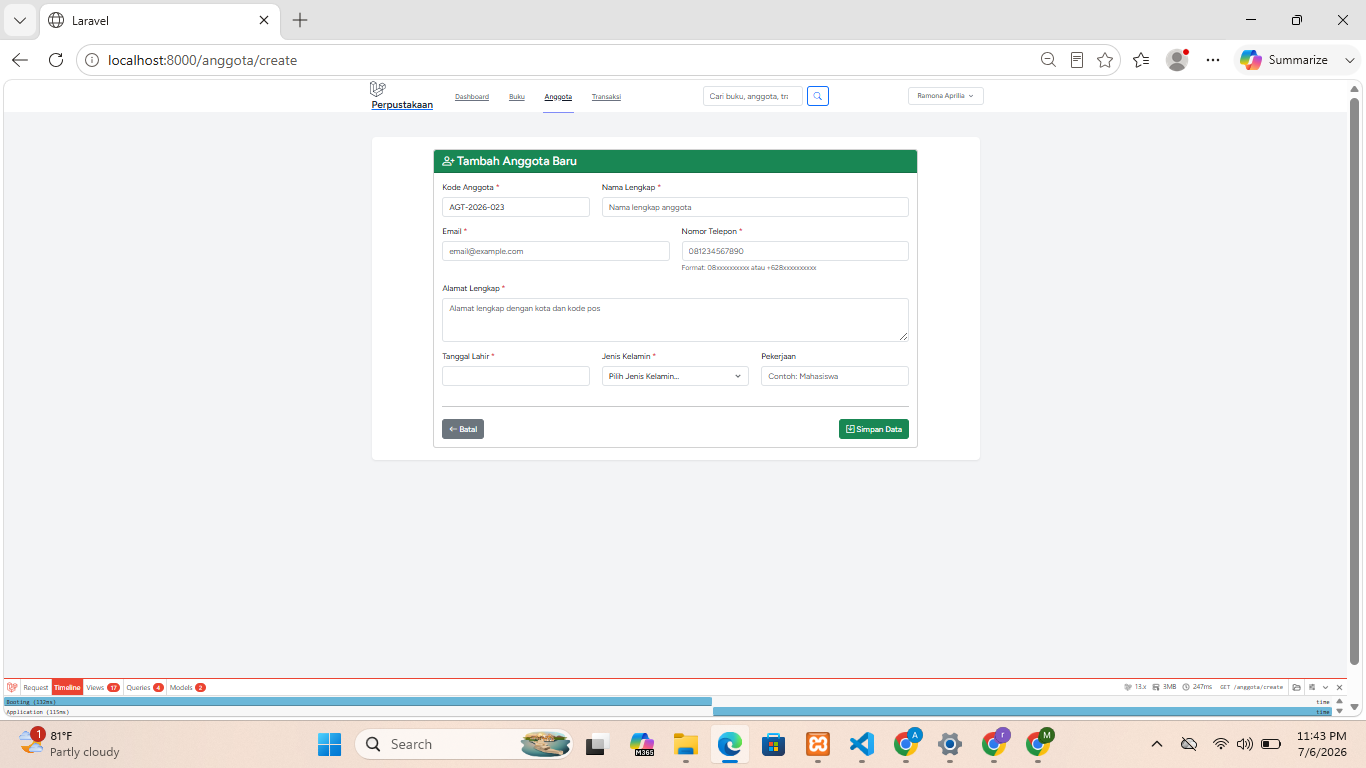
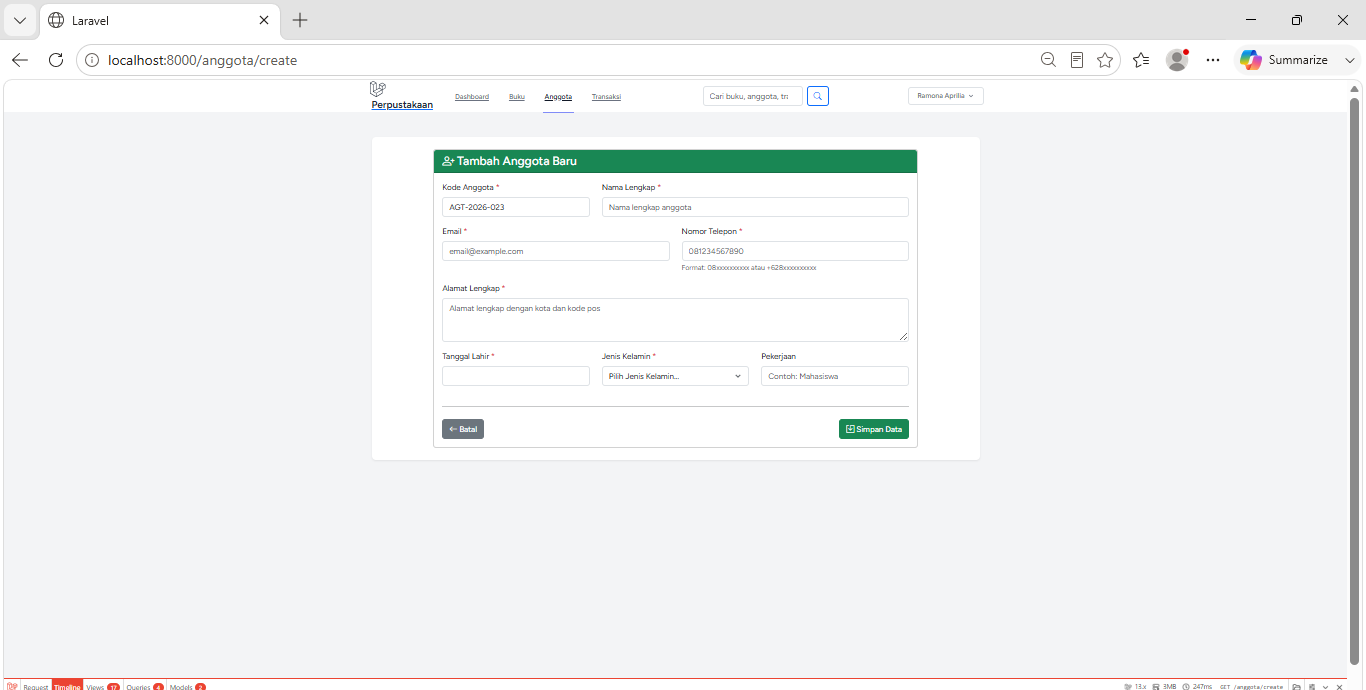
inisialisasi project

diff --git a/storage/framework/views/318f0066f1558fd2a88ac1d1569beeff.php b/storage/framework/views/318f0066f1558fd2a88ac1d1569beeff.php
@@ -1,0 +1,199 @@
+<?php if (isset($component)) { $__componentOriginal9ac128a9029c0e4701924bd2d73d7f54 = $component; } ?>
+<?php if (isset($attributes)) { $__attributesOriginal9ac128a9029c0e4701924bd2d73d7f54 = $attributes; } ?>
+<?php $component = App\View\Components\AppLayout::resolve([] + (isset($attributes) && $attributes instanceof Illuminate\View\ComponentAttributeBag ? $attributes->all() : [])); ?>
+<?php $component->withName('app-layout'); ?>
+<?php if ($component->shouldRender()): ?>
+<?php $__env->startComponent($component->resolveView(), $component->data()); ?>
+<?php if (isset($attributes) && $attributes instanceof Illuminate\View\ComponentAttributeBag): ?>
+<?php $attributes = $attributes->except(\App\View\Components\AppLayout::ignoredParameterNames()); ?>
+<?php endif; ?>
+<?php $component->withAttributes([]); ?>
+    <div class="py-12">
+        <div class="max-w-7xl mx-auto sm:px-6 lg:px-8">
+            <div class="bg-white overflow-hidden shadow-sm sm:rounded-lg p-6">
+
+                
+                <div class="d-flex justify-content-between align-items-center mb-4 border-b pb-3">
+                    <h1 class="fs-3 fw-bold text-gray-800 m-0">
+                        <i class="bi bi-info-circle-fill text-info"></i>
+                        Detail Transaksi Peminjaman
+                    </h1>
+                    <span class="badge <?php echo e($transaksi->status == 'Dipinjam' ? 'bg-warning text-dark' : 'bg-success'); ?> fs-6 px-3 py-2">
+                        <?php echo e($transaksi->status); ?>
+
+                    </span>
+                </div>
+
+                <?php if($transaksi->status === 'Dipinjam'): ?>
+                    <button type="button" class="btn btn-success" id="btn-kembalikan">
+                        <i class="bi bi-arrow-return-left"></i> Kembalikan Buku
+                    </button>
+                
+                    <form id="form-kembalikan" action="<?php echo e(route('transaksi.kembalikan', $transaksi->id)); ?>" method="POST" class="d-none">
+                        <?php echo csrf_field(); ?>
+                        <?php echo method_field('PUT'); ?>
+                    </form>
+                <?php else: ?>
+                    <?php if($transaksi->tanggal_dikembalikan <= $transaksi->tanggal_kembali): ?>
+                        <div class="alert alert-success">
+                            <i class="bi bi-check-circle"></i> Dikembalikan tepat waktu pada
+                            <?php echo e($transaksi->tanggal_dikembalikan->format('d M Y')); ?>
+
+                        </div>
+                    <?php else: ?>
+                        <div class="alert alert-warning">
+                            <i class="bi bi-exclamation-triangle"></i> Terlambat dikembalikan!
+                            Denda: Rp <?php echo e(number_format($transaksi->denda, 0, ',', '.')); ?>
+
+                        </div>
+                    <?php endif; ?>
+                <?php endif; ?>
+                
+                <?php $__env->startPush('scripts'); ?>
+                <script src="https://cdn.jsdelivr.net/npm/sweetalert2@11"></script>
+                <script>
+                document.getElementById('btn-kembalikan')?.addEventListener('click', function() {
+                    Swal.fire({
+                        title: 'Konfirmasi Pengembalian',
+                        text: 'Apakah Anda yakin ingin mengembalikan buku ini?',
+                        icon: 'question',
+                        showCancelButton: true,
+                        confirmButtonColor: '#198754',
+                        confirmButtonText: 'Ya, Kembalikan!',
+                        cancelButtonText: 'Batal'
+                    }).then((result) => {
+                        if (result.isConfirmed) {
+                            document.getElementById('form-kembalikan').submit();
+                        }
+                    });
+                });
+                </script>
+                <?php $__env->stopPush(); ?>
+
+                
+                <?php if(session('success')): ?>
+                    <div class="alert alert-success alert-dismissible fade show" role="alert" id="auto-close-alert">
+                        <i class="bi bi-check-circle-fill me-2"></i>
+                        <?php echo e(session('success')); ?>
+
+                        <button type="button" class="btn-close" data-bs-dismiss="alert" aria-label="Close"></button>
+                    </div>
+                <?php endif; ?>
+
+                <?php if(session('error')): ?>
+                    <div class="alert alert-danger alert-dismissible fade show" role="alert" id="auto-close-alert">
+                        <i class="bi bi-exclamation-triangle-fill me-2"></i>
+                        <?php echo e(session('error')); ?>
+
+                        <button type="button" class="btn-close" data-bs-dismiss="alert" aria-label="Close"></button>
+                    </div>
+                <?php endif; ?>
+
+                
+                <div class="row mb-4">
+                    <div class="col-md-6">
+                        <table class="table table-borderless sm:text-sm">
+                            <tr>
+                                <th width="40%">Kode Transaksi</th>
+                                <td>: <code><?php echo e($transaksi->kode_transaksi); ?></code></td>
+                            </tr>
+                            <tr>
+                                <th>Nama Anggota</th>
+                                <td>: <?php echo e($transaksi->anggota->nama ?? '-'); ?></td>
+                            </tr>
+                            <tr>
+                                <th>Judul Buku</th>
+                                <td>: <?php echo e($transaksi->buku->judul ?? '-'); ?></td>
+                            </tr>
+                        </table>
+                    </div>
+                    <div class="col-md-6">
+                        <table class="table table-borderless sm:text-sm">
+                            <tr>
+                                <th width="40%">Tanggal Pinjam</th>
+                                <td>: <?php echo e(is_root_obj($transaksi->tanggal_pinjam) ? $transaksi->tanggal_pinjam->format('d M Y') : \Carbon\Carbon::parse($transaksi->tanggal_pinjam)->format('d M Y')); ?></td>
+                            </tr>
+                            <tr>
+                                <th>Batas Kembali</th>
+                                <td>: <?php echo e(is_root_obj($transaksi->tanggal_kembali) ? $transaksi->tanggal_kembali->format('d M Y') : \Carbon\Carbon::parse($transaksi->tanggal_kembali)->format('d M Y')); ?></td>
+                            </tr>
+                            <?php if($transaksi->status == 'Dikembalikan'): ?>
+                            <tr>
+                                <th>Tanggal Dikembalikan</th>
+                                <td>: <?php echo e(is_root_obj($transaksi->tanggal_dikembalikan) ? $transaksi->tanggal_dikembalikan->format('d M Y') : \Carbon\Carbon::parse($transaksi->tanggal_dikembalikan)->format('d M Y')); ?></td>
+                            </tr>
+                            <?php endif; ?>
+                        </table>
+                    </div>
+                </div>
+
+                
+                <div class="card bg-light mb-4">
+                    <div class="card-body">
+                        <h5 class="card-title fs-6 fw-bold text-secondary mb-2">Informasi Pengembalian & Perhitungan Denda</h5>
+                        
+                        <?php if($transaksi->status == 'Dikembalikan'): ?>
+                            <p class="card-text text-muted mb-1">Status Pengembalian: <span class="text-success fw-bold">Buku Sudah Diterima</span></p>
+                            <h3 class="text-danger fw-bold m-0">Total Denda: Rp <?php echo e(number_format($transaksi->denda, 0, ',', '.')); ?></h3>
+                        <?php else: ?>
+                            <?php if($transaksi->terlambat > 0): ?>
+                                <div class="alert alert-danger m-0" role="alert">
+                                    <i class="bi bi-exclamation-octagon-fill me-2"></i>
+                                    <strong>Terlambat <?php echo e($transaksi->terlambat); ?> Hari!</strong> Estimasi denda saat ini sebesar: 
+                                    <span class="fs-5 d-block mt-1 fw-bold">Rp <?php echo e(number_format($transaksi->terlambat * 5000, 0, ',', '.')); ?></span>
+                                </div>
+                            <?php else: ?>
+                                <p class="text-success m-0 font-medium">
+                                    <i class="bi bi-shield-check me-1"></i> Buku belum melewati batas pengembalian. Bebas denda!
+                                </p>
+                            <?php endif; ?>
+                        <?php endif; ?>
+                    </div>
+                </div>
+
+                
+                <div class="d-flex gap-2 border-top pt-3">
+                    <a href="<?php echo e(route('transaksi.index')); ?>" class="btn btn-secondary">
+                        <i class="bi bi-arrow-left"></i> Kembali Ke Daftar
+                    </a>
+                </div>
+
+            </div>
+        </div>
+    </div>
+ <?php echo $__env->renderComponent(); ?>
+<?php endif; ?>
+<?php if (isset($__attributesOriginal9ac128a9029c0e4701924bd2d73d7f54)): ?>
+<?php $attributes = $__attributesOriginal9ac128a9029c0e4701924bd2d73d7f54; ?>
+<?php unset($__attributesOriginal9ac128a9029c0e4701924bd2d73d7f54); ?>
+<?php endif; ?>
+<?php if (isset($__componentOriginal9ac128a9029c0e4701924bd2d73d7f54)): ?>
+<?php $component = $__componentOriginal9ac128a9029c0e4701924bd2d73d7f54; ?>
+<?php unset($__componentOriginal9ac128a9029c0e4701924bd2d73d7f54); ?>
+<?php endif; ?>
+
+<?php
+// Helper pengecekan objek Carbon internal blade agar tidak crash
+function is_root_obj($val) {
+    return is_object($val) && method_exists($val, 'format');
+}
+?>
+
+
+<script>
+    document.addEventListener('DOMContentLoaded', function() {
+        const alertElement = document.getElementById('auto-close-alert');
+        if (alertElement) {
+            setTimeout(function() {
+                if (typeof bootstrap !== 'undefined' && bootstrap.Alert) {
+                    const bsAlert = new bootstrap.Alert(alertElement);
+                    bsAlert.close();
+                } else {
+                    alertElement.classList.remove('show');
+                    alertElement.classList.add('fade');
+                    setTimeout(() => alertElement.remove(), 150);
+                }
+            }, 5000);
+        }
+    });
+</script><?php /**PATH C:\xampp\htdocs\Pertemuan 15\praktikum-Pertemuan15\resources\views/transaksi/show.blade.php ENDPATH**/ ?>

diff --git a/storage/framework/views/e02b817244b12bf2009843bf1a59e687.php b/storage/framework/views/e02b817244b12bf2009843bf1a59e687.php
@@ -1,0 +1,100 @@
+<?php if (isset($component)) { $__componentOriginal9ac128a9029c0e4701924bd2d73d7f54 = $component; } ?>
+<?php if (isset($attributes)) { $__attributesOriginal9ac128a9029c0e4701924bd2d73d7f54 = $attributes; } ?>
+<?php $component = App\View\Components\AppLayout::resolve([] + (isset($attributes) && $attributes instanceof Illuminate\View\ComponentAttributeBag ? $attributes->all() : [])); ?>
+<?php $component->withName('app-layout'); ?>
+<?php if ($component->shouldRender()): ?>
+<?php $__env->startComponent($component->resolveView(), $component->data()); ?>
+<?php if (isset($attributes) && $attributes instanceof Illuminate\View\ComponentAttributeBag): ?>
+<?php $attributes = $attributes->except(\App\View\Components\AppLayout::ignoredParameterNames()); ?>
+<?php endif; ?>
+<?php $component->withAttributes([]); ?>
+
+    <div class="container-fluid py-4">
+
+        <h2 class="mb-4">Hasil Pencarian</h2>
+
+        <ul class="nav nav-tabs mb-3" role="tablist">
+            <li class="nav-item">
+                <a class="nav-link active" data-bs-toggle="tab" href="#tab-buku">
+                    Buku (<?php echo e($results['buku']->count()); ?>)
+                </a>
+            </li>
+            <li class="nav-item">
+                <a class="nav-link" data-bs-toggle="tab" href="#tab-anggota">
+                    Anggota (<?php echo e($results['anggota']->count()); ?>)
+                </a>
+            </li>
+            <li class="nav-item">
+                <a class="nav-link" data-bs-toggle="tab" href="#tab-transaksi">
+                    Transaksi (<?php echo e($results['transaksi']->count()); ?>)
+                </a>
+            </li>
+        </ul>
+
+        <div class="tab-content">
+
+            
+            <div class="tab-pane fade show active" id="tab-buku">
+                <?php $__empty_1 = true; $__currentLoopData = $results['buku']; $__env->addLoop($__currentLoopData); foreach($__currentLoopData as $buku): $__env->incrementLoopIndices(); $loop = $__env->getLastLoop(); $__empty_1 = false; ?>
+                    <div class="card mb-2">
+                        <div class="card-body">
+                            <h6><?php echo str_ireplace($keyword, '<mark>'.$keyword.'</mark>', e($buku->judul)); ?></h6>
+                            <small class="text-muted">
+                                <?php echo e($buku->penulis); ?> — Stok: <?php echo e($buku->stok); ?>
+
+                            </small>
+                        </div>
+                    </div>
+                <?php endforeach; $__env->popLoop(); $loop = $__env->getLastLoop(); if ($__empty_1): ?>
+                    <p class="text-muted">Tidak ada buku yang cocok.</p>
+                <?php endif; ?>
+            </div>
+
+            
+            <div class="tab-pane fade" id="tab-anggota">
+                <?php $__empty_1 = true; $__currentLoopData = $results['anggota']; $__env->addLoop($__currentLoopData); foreach($__currentLoopData as $anggota): $__env->incrementLoopIndices(); $loop = $__env->getLastLoop(); $__empty_1 = false; ?>
+                    <div class="card mb-2">
+                        <div class="card-body">
+                            <h6><?php echo str_ireplace($keyword, '<mark>'.$keyword.'</mark>', e($anggota->nama)); ?></h6>
+                            <small class="text-muted">
+                                <?php echo e($anggota->nim); ?> — <?php echo e($anggota->email); ?>
+
+                            </small>
+                        </div>
+                    </div>
+                <?php endforeach; $__env->popLoop(); $loop = $__env->getLastLoop(); if ($__empty_1): ?>
+                    <p class="text-muted">Tidak ada anggota yang cocok.</p>
+                <?php endif; ?>
+            </div>
+
+            
+            <div class="tab-pane fade" id="tab-transaksi">
+                <?php $__empty_1 = true; $__currentLoopData = $results['transaksi']; $__env->addLoop($__currentLoopData); foreach($__currentLoopData as $trx): $__env->incrementLoopIndices(); $loop = $__env->getLastLoop(); $__empty_1 = false; ?>
+                    <div class="card mb-2">
+                        <div class="card-body">
+                            <h6><?php echo e($trx->kode_transaksi); ?></h6>
+                            <small>
+                                <?php echo e($trx->anggota->nama); ?> — <?php echo e($trx->buku->judul); ?>
+
+                            </small>
+                        </div>
+                    </div>
+                <?php endforeach; $__env->popLoop(); $loop = $__env->getLastLoop(); if ($__empty_1): ?>
+                    <p class="text-muted">Tidak ada transaksi yang cocok.</p>
+                <?php endif; ?>
+            </div>
+
+        </div>
+
+    </div>
+
+ <?php echo $__env->renderComponent(); ?>
+<?php endif; ?>
+<?php if (isset($__attributesOriginal9ac128a9029c0e4701924bd2d73d7f54)): ?>
+<?php $attributes = $__attributesOriginal9ac128a9029c0e4701924bd2d73d7f54; ?>
+<?php unset($__attributesOriginal9ac128a9029c0e4701924bd2d73d7f54); ?>
+<?php endif; ?>
+<?php if (isset($__componentOriginal9ac128a9029c0e4701924bd2d73d7f54)): ?>
+<?php $component = $__componentOriginal9ac128a9029c0e4701924bd2d73d7f54; ?>
+<?php unset($__componentOriginal9ac128a9029c0e4701924bd2d73d7f54); ?>
+<?php endif; ?><?php /**PATH C:\xampp\htdocs\Pertemuan 15\praktikum-Pertemuan15\resources\views/search/index.blade.php ENDPATH**/ ?>